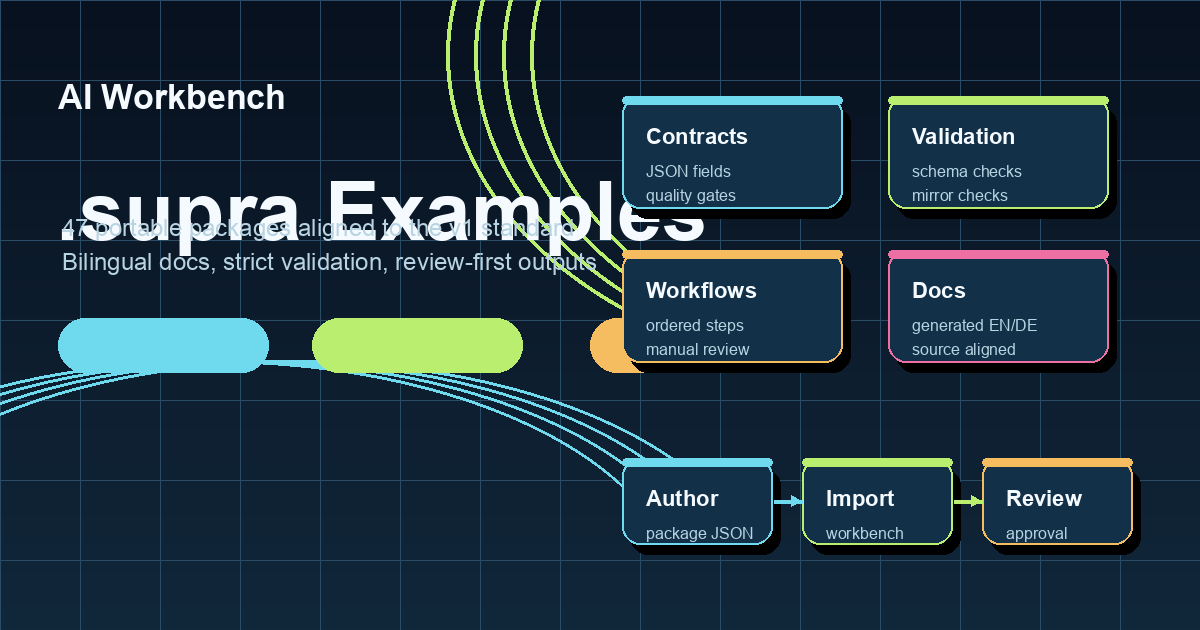
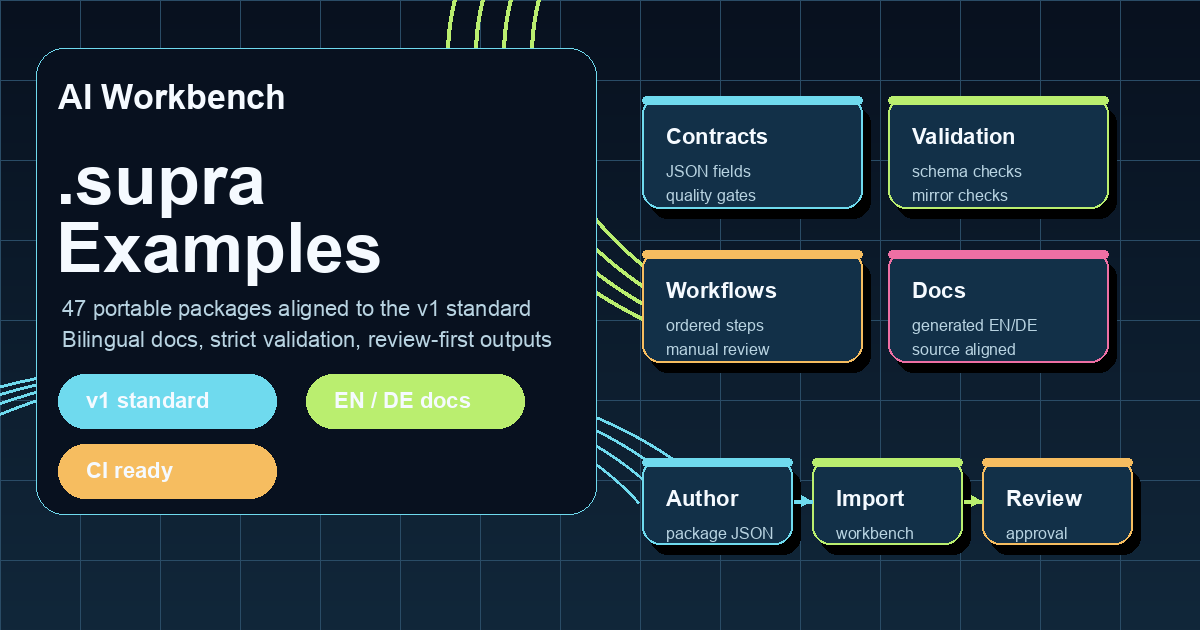
update image renderings

diff --git a/scripts/render_assets.py b/scripts/render_assets.py
@@ -142,22 +142,26 @@ def svg_shell(width: int, height: int, title: str, desc: str, body: str) -> str:
 def svg_social() -> str:
     body = "\n".join(
         [
+            '<rect x="36" y="48" width="560" height="466" rx="28" fill="rgb(8 17 31 / 0.72)" stroke="rgb(111 218 238 / 0.18)" stroke-width="1"/>',
             svg_text(56, 78, "AI Workbench", 28, weight=700),
-            svg_text(56, 154, ".supra Examples", 76, weight=700),
-            svg_multiline(60, 205, ["47 portable packages aligned to the v1 standard", "Bilingual docs, strict validation, review-first outputs"], 22),
-            '<rect x="56" y="270" width="230" height="58" rx="29" fill="rgb(111 218 238 / 0.14)" stroke="rgb(111 218 238 / 0.65)" stroke-width="2"/>',
-            svg_text(85, 306, "v1 standard", 22, weight=700, fill=CYAN),
-            '<rect x="312" y="270" width="180" height="58" rx="29" fill="rgb(186 238 111 / 0.12)" stroke="rgb(186 238 111 / 0.58)" stroke-width="2"/>',
-            svg_text(345, 306, "EN / DE", 22, weight=700, fill=LIME),
-            svg_card(610, 92, 230, 120, "Contracts", ["JSON output fields", "quality gates"], accent=CYAN),
-            svg_card(884, 92, 230, 120, "Validation", ["schema checks", "mirror checks"], accent=LIME),
-            svg_card(610, 252, 230, 120, "Workflows", ["ordered steps", "review-first run"], accent=AMBER),
-            svg_card(884, 252, 230, 120, "Docs", ["generated package", "references"], accent=ROSE),
+            svg_text(56, 158, ".supra", 66, weight=700),
+            svg_text(56, 226, "Examples", 66, weight=700),
+            svg_multiline(60, 290, ["47 portable packages aligned to the v1 standard", "Bilingual docs, strict validation, review-first outputs"], 20),
+            '<rect x="56" y="372" width="218" height="54" rx="27" fill="rgb(111 218 238 / 0.14)" stroke="rgb(111 218 238 / 0.65)" stroke-width="2"/>',
+            svg_text(85, 406, "v1 standard", 20, weight=700, fill=INK),
+            '<rect x="300" y="372" width="218" height="54" rx="27" fill="rgb(186 238 111 / 0.12)" stroke="rgb(186 238 111 / 0.58)" stroke-width="2"/>',
+            svg_text(329, 406, "EN / DE docs", 20, weight=700, fill=INK),
+            '<rect x="56" y="444" width="218" height="54" rx="27" fill="rgb(246 189 96 / 0.14)" stroke="rgb(246 189 96 / 0.58)" stroke-width="2"/>',
+            svg_text(85, 478, "CI ready", 20, weight=700, fill=INK),
+            svg_card(640, 92, 220, 120, "Contracts", ["JSON output fields", "quality gates"], accent=CYAN),
+            svg_card(894, 92, 220, 120, "Validation", ["schema checks", "mirror checks"], accent=LIME),
+            svg_card(640, 252, 220, 120, "Workflows", ["ordered steps", "review-first run"], accent=AMBER),
+            svg_card(894, 252, 220, 120, "Docs", ["generated package", "references"], accent=ROSE),
             svg_arrow(724, 430, 834, 430, color=CYAN),
             svg_arrow(834, 430, 944, 430, color=LIME),
-            svg_card(614, 470, 160, 86, "Author", ["package JSON"], accent=CYAN),
-            svg_card(794, 470, 160, 86, "Import", ["workbench mirror"], accent=LIME),
-            svg_card(974, 470, 160, 86, "Review", ["human approval"], accent=AMBER),
+            svg_card(640, 470, 150, 86, "Author", ["package JSON"], accent=CYAN),
+            svg_card(810, 470, 150, 86, "Import", ["workbench"], accent=LIME),
+            svg_card(980, 470, 150, 86, "Review", ["approval"], accent=AMBER),
         ]
     )
     return svg_shell(1200, 630, "AI Workbench .supra Examples", "47 packages aligned to the .supra v1 standard", body)
@@ -215,23 +219,23 @@ def svg_anatomy() -> str:
             svg_text(48, 72, ".supra Package Anatomy", 36, weight=700),
             svg_text(50, 108, "The v1 sections that make a package portable and reviewable", 18, fill=MUTED),
             '<g filter="url(#shadow)">',
-            f'<rect x="438" y="150" width="324" height="360" rx="22" fill="{rgb((12, 29, 45))}" stroke="{rgba(CYAN, 0.62)}" stroke-width="2"/>',
-            svg_text(476, 202, "{", 44, weight=700, fill=CYAN),
-            svg_text(508, 198, '"key": "example"', 22, fill=INK),
-            svg_text(508, 248, '"metadata": {...}', 22, fill=LIME),
-            svg_text(508, 298, '"columns": [...]', 22, fill=AMBER),
-            svg_text(508, 348, '"workflows": [...]', 22, fill=ROSE),
-            svg_text(508, 398, '"main_workbench": {...}', 22, fill=CYAN),
-            svg_text(476, 468, "}", 44, weight=700, fill=CYAN),
+            f'<rect x="418" y="150" width="364" height="360" rx="22" fill="{rgb((12, 29, 45))}" stroke="{rgba(CYAN, 0.62)}" stroke-width="2"/>',
+            svg_text(454, 202, "{", 44, weight=700, fill=CYAN),
+            svg_text(494, 198, '"key": "example"', 21, fill=INK),
+            svg_text(494, 248, '"metadata": {...}', 21, fill=LIME),
+            svg_text(494, 298, '"columns": [...]', 21, fill=AMBER),
+            svg_text(494, 348, '"workflows": [...]', 21, fill=ROSE),
+            svg_text(494, 398, '"main_workbench": {...}', 21, fill=CYAN),
+            svg_text(454, 468, "}", 44, weight=700, fill=CYAN),
             "</g>",
-            svg_card(80, 160, 260, 116, "metadata", ["identity", "versions", "starter rows"], accent=LIME),
+            svg_card(80, 154, 260, 132, "metadata", ["identity", "versions", "starter rows"], accent=LIME),
             svg_card(80, 374, 260, 116, "output contracts", ["required fields", "quality gates"], accent=ROSE),
-            svg_card(860, 160, 260, 116, "columns", ["manual", "ai_tool", "shortcut"], accent=AMBER),
+            svg_card(860, 154, 260, 132, "columns", ["manual", "ai_tool", "shortcut"], accent=AMBER),
             svg_card(860, 374, 260, 116, "main_workbench", ["exact mirror", "import-ready"], accent=CYAN),
-            svg_arrow(346, 216, 438, 236, color=LIME),
-            svg_arrow(346, 430, 438, 390, color=ROSE),
-            svg_arrow(860, 216, 762, 296, color=AMBER),
-            svg_arrow(860, 430, 762, 400, color=CYAN),
+            svg_arrow(346, 220, 418, 236, color=LIME),
+            svg_arrow(346, 430, 418, 390, color=ROSE),
+            svg_arrow(860, 220, 782, 296, color=AMBER),
+            svg_arrow(860, 430, 782, 400, color=CYAN),
         ]
     )
     return svg_shell(1200, 650, ".supra Package Anatomy", "The .supra v1 sections used by AI Workbench examples", body)
@@ -266,21 +270,21 @@ def svg_import_export() -> str:
 
 def svg_governance() -> str:
     body = [
-        svg_text(48, 72, ".supra Governance Loop", 36, weight=700),
-        svg_text(50, 108, "Facts, assumptions, evidence gaps, and human review for v1 packages", 18, fill=MUTED),
-        '<circle cx="600" cy="330" r="118" fill="rgb(111 218 238 / 0.10)" stroke="rgb(111 218 238 / 0.55)" stroke-width="3"/>',
-        svg_text(518, 315, "Review-first", 28, weight=700, fill=INK),
-        svg_text(544, 350, "execution", 24, weight=700, fill=CYAN),
+        svg_text(48, 66, ".supra Governance Loop", 34, weight=700),
+        svg_text(50, 104, "Facts, assumptions, evidence gaps, and human review for v1 packages", 18, fill=MUTED),
+        '<circle cx="600" cy="356" r="108" fill="rgb(111 218 238 / 0.18)" stroke="rgb(111 218 238 / 0.62)" stroke-width="3"/>',
+        svg_text(518, 346, "Review-first", 28, weight=700, fill=INK),
+        svg_text(544, 381, "execution", 24, weight=700, fill=INK),
     ]
     cards = [
-        (102, 150, "Facts", ["separate known", "from inferred"], CYAN),
-        (486, 96, "Contracts", ["required JSON", "quality gates"], LIME),
-        (870, 150, "Human review", ["approval", "before use"], AMBER),
-        (870, 418, "Audit trail", ["docs", "CI and PRs"], CYAN),
-        (486, 472, "Evidence gaps", ["missing facts", "stay visible"], ROSE),
-        (102, 418, "Actions", ["owners", "next steps"], LIME),
+        (102, 172, "Facts", ["separate known", "from inferred"], CYAN),
+        (486, 150, "Contracts", ["required JSON", "quality gates"], LIME),
+        (870, 172, "Human review", ["approval", "before use"], AMBER),
+        (870, 430, "Audit trail", ["docs", "CI and PRs"], CYAN),
+        (486, 492, "Evidence gaps", ["missing facts", "stay visible"], ROSE),
+        (102, 430, "Actions", ["owners", "next steps"], LIME),
     ]
-    anchors = [(330, 205, 486, 156), (714, 156, 870, 205), (985, 268, 985, 418), (870, 470, 714, 526), (486, 526, 330, 470), (215, 418, 215, 268)]
+    anchors = [(330, 226, 486, 204), (714, 204, 870, 226), (985, 290, 985, 430), (870, 482, 714, 546), (486, 546, 330, 482), (215, 430, 215, 290)]
     for x1, y1, x2, y2 in anchors:
         body.append(svg_arrow(x1, y1, x2, y2))
     for x, y, title, lines, color in cards:
@@ -437,27 +441,29 @@ def make_canvas(Image, ImageDraw, size):
 
 def render_social(Image, ImageDraw, fonts):
     img, draw = make_canvas(Image, ImageDraw, (1200, 630))
+    draw.rounded_rectangle((36, 48, 596, 514), radius=28, fill=(*BG_TOP, 184), outline=(*CYAN, 46), width=1)
     draw_text(draw, (58, 78), "AI Workbench", fonts(34, "bold"))
-    draw_text(draw, (56, 165), ".supra Examples", fonts(82, "bold"))
+    draw_text(draw, (56, 140), ".supra", fonts(70, "bold"))
+    draw_text(draw, (56, 208), "Examples", fonts(70, "bold"))
     draw_multiline(
         draw,
-        (62, 214),
+        (62, 296),
         "47 portable packages aligned to the v1 standard\nBilingual docs, strict validation, review-first outputs",
-        fonts(24),
+        fonts(22),
         fill=MUTED,
-        line_gap=34,
+        line_gap=31,
     )
-    for x, label, color in [(58, "v1 standard", CYAN), (312, "EN / DE docs", LIME), (590, "CI ready", AMBER)]:
-        draw.rounded_rectangle((x, 318, x + 210, 372), radius=27, fill=(*color, 34), outline=(*color, 170), width=2)
-        draw_text(draw, (x + 28, 334), label, fonts(22, "bold"), fill=color)
-    draw_card(draw, fonts, 622, 96, 220, 112, "Contracts", ["JSON fields", "quality gates"], CYAN)
+    for x, y, label, color in [(58, 374, "v1 standard", CYAN), (306, 374, "EN / DE docs", LIME), (58, 444, "CI ready", AMBER)]:
+        draw.rounded_rectangle((x, y, x + 218, y + 54), radius=27, fill=(*color, 40), outline=(*color, 170), width=2)
+        draw_text(draw, (x + 28, y + 14), label, fonts(22, "bold"), fill=INK)
+    draw_card(draw, fonts, 642, 96, 220, 112, "Contracts", ["JSON fields", "quality gates"], CYAN)
     draw_card(draw, fonts, 888, 96, 220, 112, "Validation", ["schema checks", "mirror checks"], LIME)
-    draw_card(draw, fonts, 622, 250, 220, 112, "Workflows", ["ordered steps", "manual review"], AMBER)
+    draw_card(draw, fonts, 642, 250, 220, 112, "Workflows", ["ordered steps", "manual review"], AMBER)
     draw_card(draw, fonts, 888, 250, 220, 112, "Docs", ["generated EN/DE", "source aligned"], ROSE)
-    for x, label, color in [(622, "Author", CYAN), (802, "Import", LIME), (982, "Review", AMBER)]:
+    for x, label, color in [(642, "Author", CYAN), (812, "Import", LIME), (982, "Review", AMBER)]:
         draw_card(draw, fonts, x, 458, 150, 86, label, ["package JSON" if label == "Author" else "workbench" if label == "Import" else "approval"], color)
-    draw_arrow(draw, (774, 501), (802, 501), CYAN)
-    draw_arrow(draw, (954, 501), (982, 501), LIME)
+    draw_arrow(draw, (794, 501), (812, 501), CYAN)
+    draw_arrow(draw, (964, 501), (982, 501), LIME)
     return img
 
 
@@ -511,7 +517,7 @@ def render_anatomy(Image, ImageDraw, fonts):
     img, draw = make_canvas(Image, ImageDraw, (1200, 650))
     draw_text(draw, (50, 78), ".supra Package Anatomy", fonts(42, "bold"))
     draw_text(draw, (52, 116), "The v1 sections that make a package portable and reviewable", fonts(20), fill=MUTED)
-    rounded_card(draw, (438, 150, 762, 510), radius=24, fill=(12, 29, 45, 248), outline=(*CYAN, 170))
+    rounded_card(draw, (418, 150, 782, 510), radius=24, fill=(12, 29, 45, 248), outline=(*CYAN, 170))
     for i, (label, color) in enumerate(
         [
             ('"key": "example"', CYAN),
@@ -521,17 +527,17 @@ def render_anatomy(Image, ImageDraw, fonts):
             ('"main_workbench": {...}', CYAN),
         ]
     ):
-        draw_text(draw, (500, 205 + i * 50), label, fonts(25, "bold"), fill=color)
-    draw_text(draw, (470, 205), "{", fonts(50, "bold"), fill=CYAN)
-    draw_text(draw, (470, 472), "}", fonts(50, "bold"), fill=CYAN)
-    draw_card(draw, fonts, 80, 162, 260, 116, "metadata", ["identity", "versions", "starter rows"], LIME)
+        draw_text(draw, (490, 205 + i * 50), label, fonts(23, "bold"), fill=color)
+    draw_text(draw, (452, 205), "{", fonts(50, "bold"), fill=CYAN)
+    draw_text(draw, (452, 472), "}", fonts(50, "bold"), fill=CYAN)
+    draw_card(draw, fonts, 80, 154, 260, 132, "metadata", ["identity", "versions", "starter rows"], LIME)
     draw_card(draw, fonts, 80, 374, 260, 116, "output contracts", ["required fields", "quality gates"], ROSE)
-    draw_card(draw, fonts, 860, 162, 260, 116, "columns", ["manual", "ai_tool", "shortcut"], AMBER)
+    draw_card(draw, fonts, 860, 154, 260, 132, "columns", ["manual", "ai_tool", "shortcut"], AMBER)
     draw_card(draw, fonts, 860, 374, 260, 116, "main_workbench", ["exact mirror", "import-ready"], CYAN)
-    draw_arrow(draw, (346, 220), (432, 238), LIME)
-    draw_arrow(draw, (346, 430), (432, 390), ROSE)
-    draw_arrow(draw, (860, 220), (768, 295), AMBER)
-    draw_arrow(draw, (860, 430), (768, 400), CYAN)
+    draw_arrow(draw, (346, 220), (412, 238), LIME)
+    draw_arrow(draw, (346, 430), (412, 390), ROSE)
+    draw_arrow(draw, (860, 220), (788, 295), AMBER)
+    draw_arrow(draw, (860, 430), (788, 400), CYAN)
     return img
 
 
@@ -558,20 +564,20 @@ def render_import_export(Image, ImageDraw, fonts):
 
 def render_governance(Image, ImageDraw, fonts):
     img, draw = make_canvas(Image, ImageDraw, (1200, 650))
-    draw_text(draw, (50, 78), ".supra Governance Loop", fonts(42, "bold"))
-    draw_text(draw, (52, 116), "Facts, assumptions, evidence gaps, and human review for v1 packages", fonts(20), fill=MUTED)
-    draw.ellipse((482, 212, 718, 448), fill=(*CYAN, 25), outline=(*CYAN, 140), width=3)
-    draw_text(draw, (600, 310), "Review-first", fonts(31, "bold"), anchor="mm")
-    draw_text(draw, (600, 350), "execution", fonts(27, "bold"), fill=CYAN, anchor="mm")
+    draw_text(draw, (50, 64), ".supra Governance Loop", fonts(39, "bold"))
+    draw_text(draw, (52, 112), "Facts, assumptions, evidence gaps, and human review for v1 packages", fonts(20), fill=MUTED)
+    draw.ellipse((492, 248, 708, 464), fill=(*CYAN, 42), outline=(*CYAN, 150), width=3)
+    draw_text(draw, (600, 340), "Review-first", fonts(31, "bold"), anchor="mm")
+    draw_text(draw, (600, 378), "execution", fonts(27, "bold"), fill=INK, anchor="mm")
     cards = [
-        (102, 150, "Facts", ["separate known", "from inferred"], CYAN),
-        (486, 96, "Contracts", ["required JSON", "quality gates"], LIME),
-        (870, 150, "Human review", ["approval", "before use"], AMBER),
-        (870, 418, "Audit trail", ["docs", "CI and PRs"], CYAN),
-        (486, 472, "Evidence gaps", ["missing facts", "stay visible"], ROSE),
-        (102, 418, "Actions", ["owners", "next steps"], LIME),
+        (102, 172, "Facts", ["separate known", "from inferred"], CYAN),
+        (486, 150, "Contracts", ["required JSON", "quality gates"], LIME),
+        (870, 172, "Human review", ["approval", "before use"], AMBER),
+        (870, 430, "Audit trail", ["docs", "CI and PRs"], CYAN),
+        (486, 492, "Evidence gaps", ["missing facts", "stay visible"], ROSE),
+        (102, 430, "Actions", ["owners", "next steps"], LIME),
     ]
-    for start, end in [((330, 205), (480, 156)), ((720, 156), (870, 205)), ((985, 268), (985, 414)), ((870, 470), (720, 526)), ((486, 526), (330, 470)), ((215, 414), (215, 268))]:
+    for start, end in [((330, 226), (480, 204)), ((720, 204), (870, 226)), ((985, 290), (985, 426)), ((870, 482), (720, 546)), ((486, 546), (330, 482)), ((215, 426), (215, 290))]:
         draw_arrow(draw, start, end, CYAN)
     for x, y, title, lines, color in cards:
         draw_card(draw, fonts, x, y, 228, 110, title, lines, color)